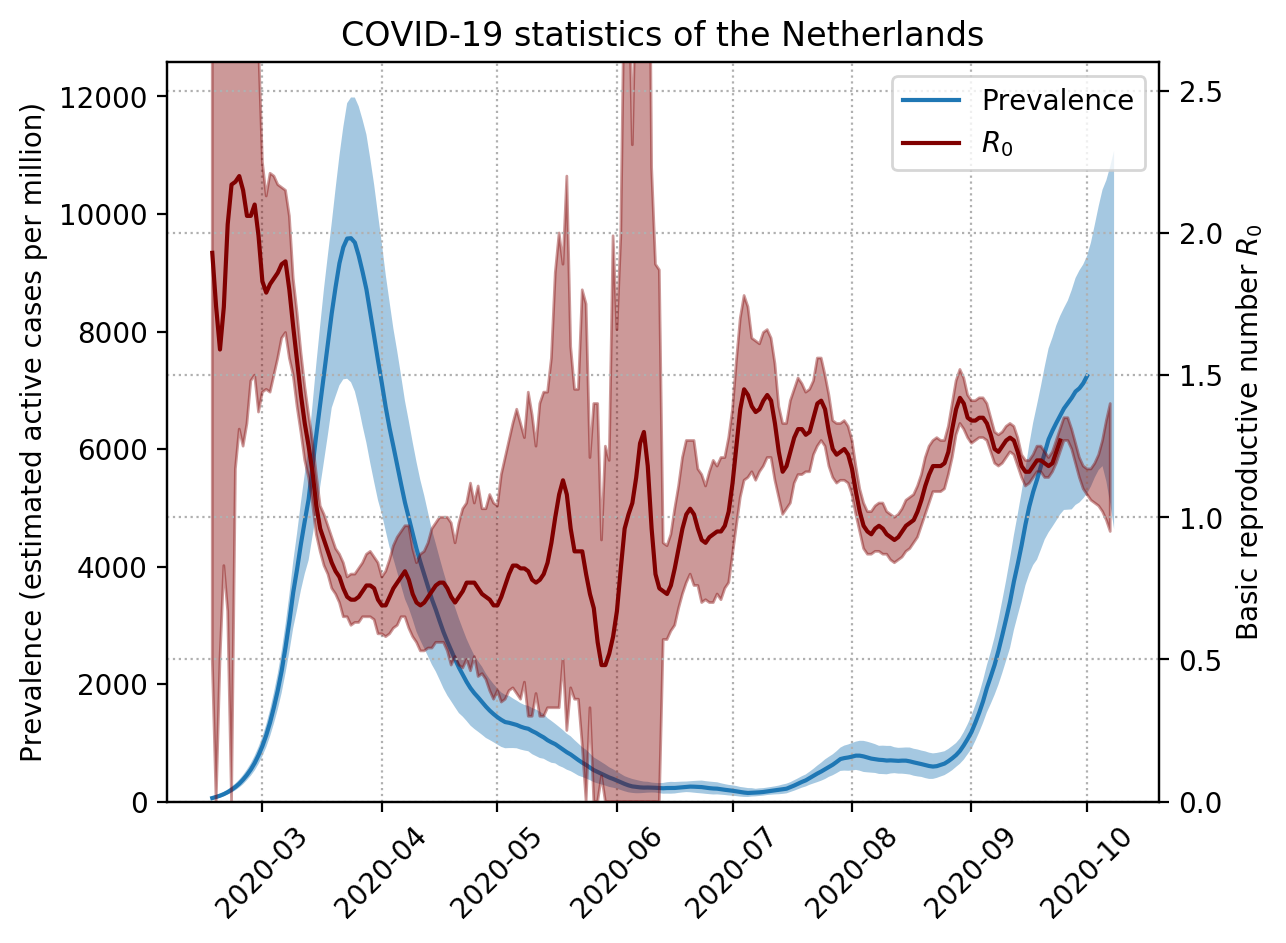
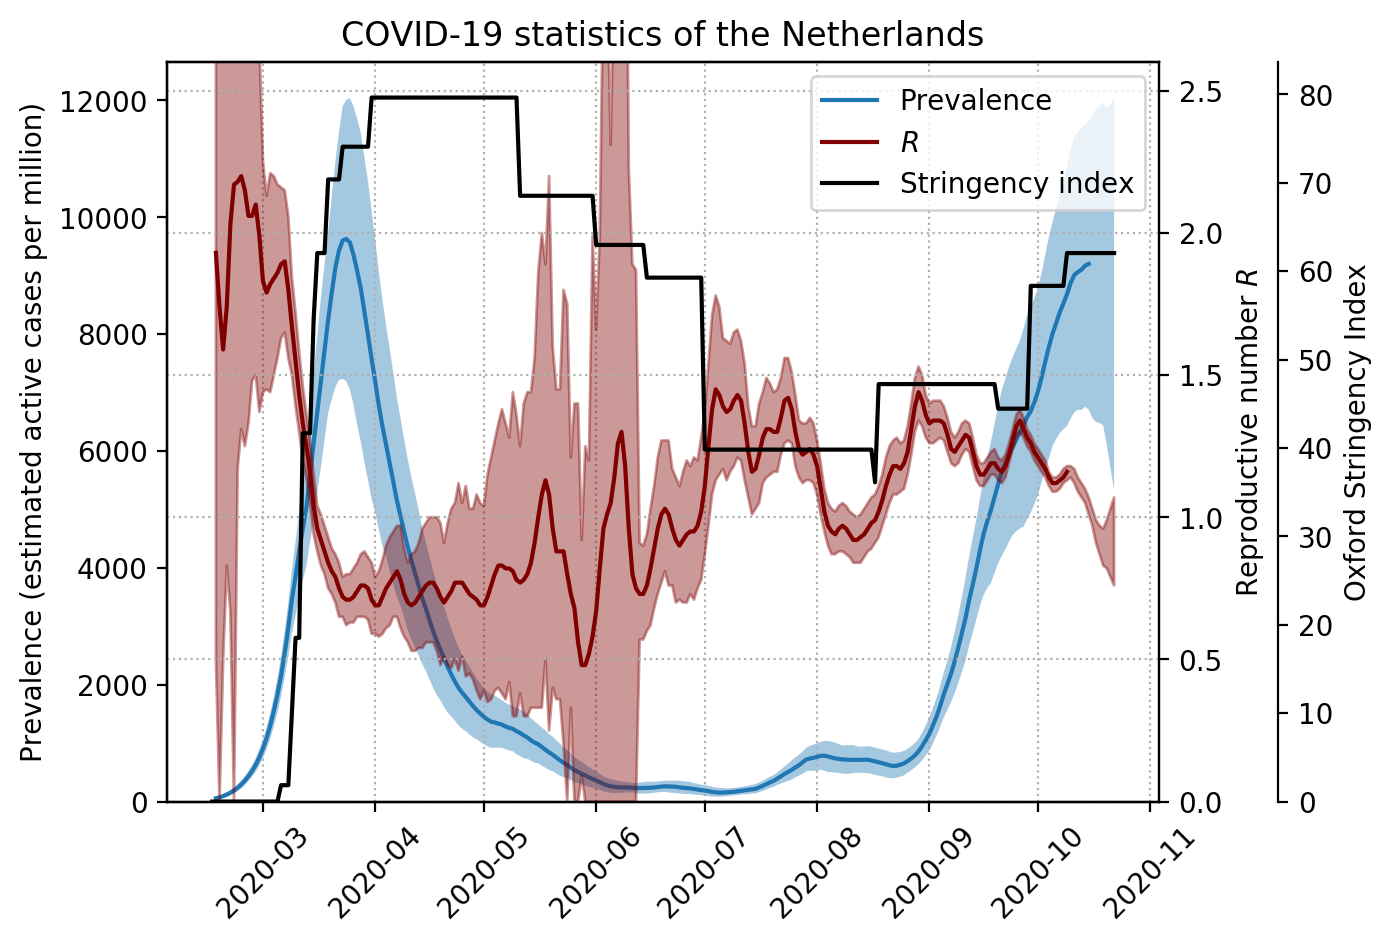
Added stringency index to prevalence & R plot

diff --git a/model_coronavirus_supression.py b/model_coronavirus_supression.py
@@ -524,22 +524,36 @@ def dataframes_to_NDarray(df, columns):
 
 def plot_prevalence_R():
 	df_prevalence, df_R0 = load_prevalence_R0_data()
+	df_response = load_government_response_data()
 
-	print(np.nanmin(df_prevalence['prev_avg']))
+	#filter on starting date
+	startdate = '2020-02-15'
+	df_prevalence = df_prevalence.loc[df_prevalence.index > startdate]
+	df_R0 = df_R0.loc[df_R0.index > startdate]
+	df_response = df_response.loc[df_response.index > startdate]
+
 
 	fig, ax1 = plt.subplots()
 	ax2 = ax1.twinx()
+	ax3 = ax1.twinx()
+	ax3.spines['right'].set_position(('axes', 1.12))
 
+	#plot prevalence
 	ln1 = ax1.plot(df_prevalence.index, df_prevalence['prev_avg'], label = 'Prevalence')
 	ax1.fill_between(df_prevalence.index, df_prevalence['prev_low'], df_prevalence['prev_up'], alpha = 0.4)
 
-	ln2 = ax2.plot(df_R0.index, df_R0['Rt_avg'], color = 'maroon', label = r'$R_0$')
+	#plot R
+	ln2 = ax2.plot(df_R0.index, df_R0['Rt_avg'], color = 'maroon', label = r'$R$')
 	ax2.fill_between(df_R0.index, df_R0['Rt_low'], df_R0['Rt_up'], alpha = 0.4, color = 'maroon')
+
+	#also plot government response
+	ln3 = ax3.plot(df_response.index, df_response['StringencyIndex'], label = 'Stringency index', color = 'black')
 
 	ax1.set_ylim(0)
 	ax2.set_ylim(0, 2.6)
+	ax3.set_ylim(0)
 
-	lns = ln1 + ln2
+	lns = ln1 + ln2 + ln3
 	labs = [l.get_label() for l in lns]
 	ax2.legend(lns, labs, loc = 'best')
 
@@ -551,7 +565,8 @@ def plot_prevalence_R():
 	# fig.autofmt_xdate()
 
 	ax1.set_ylabel('Prevalence (estimated active cases per million)')
-	ax2.set_ylabel(r'Basic reproductive number $R_0$')
+	ax2.set_ylabel(r'Reproductive number $R$')
+	ax3.set_ylabel('Oxford Stringency Index')
 
 	ax1.set_title('COVID-19 statistics of the Netherlands')
 
@@ -1291,11 +1306,11 @@ def main():
 
 	# estimate_recent_prevalence()
 
-	# plot_prevalence_R()
+	plot_prevalence_R()
 
 	# plot_mobility()
 
-	plot_daily_results()
+	# plot_daily_results()
 
 	# plot_sewage()
 
